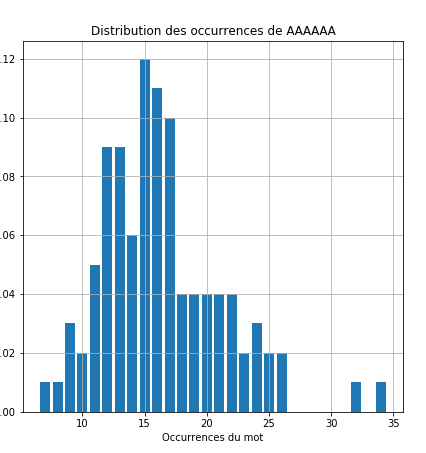
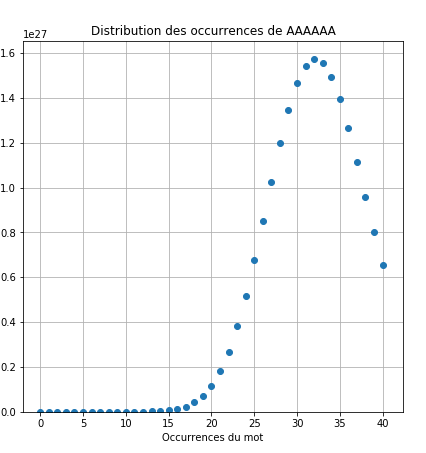
edited plot_histograms but bugging

diff --git a/project.py b/project.py
@@ -1,6 +1,6 @@
 from functools import reduce
 from itertools import product
-
+import math
 import numpy as np
 import pandas as pd
 import matplotlib.pyplot as plt
@@ -345,15 +345,16 @@ def plot_histogram(sequence,freqs, nb_simulation=1000):
     pik = stationary_distribution(freqs, transition_matrix(sequence), 0.00001)
     for word in words:
         p_emp[word] = p_empirique(len(sequence), word, freqs, nb_simulation)
-        p[word] = markov_proba(word,transition_matrix(sequence),pik)
+        p[word] = markov_proba(str_to_int(word),transition_matrix(sequence),pik)
     fig, axes = plt.subplots(2, 2, figsize=(15, 15))
     for pos, word in zip(positions, p_emp.keys()):
         max_ = max(p_emp[word].keys()) + 1
         k = np.arange(max_)
-        l = p * (len(sequence) - len(word) + 1)
+        l = p[word] * (len(sequence) - len(word) + 1)
         keys = np.array([x for x in p_emp[word].keys()])
         values = np.array([x for x in p_emp[word].values()])
-        axes[pos].scatter(k,((l**k)/factorial(k))*np.exp(-l), zorder=2)
+        poisson = [(l**i)/math.factorial(i)*np.exp(l) for i in k]
+        axes[pos].scatter(k,poisson, zorder=2)
         axes[pos].bar(keys, values)
         axes[pos].grid(True)
         axes[pos].set_title("Distribution des occurrences de " + word)
